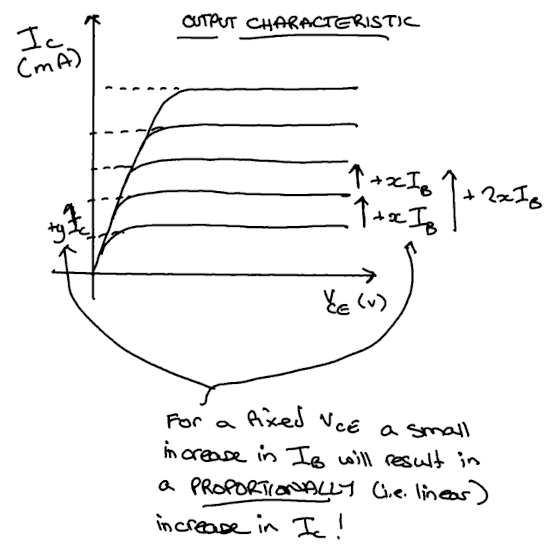
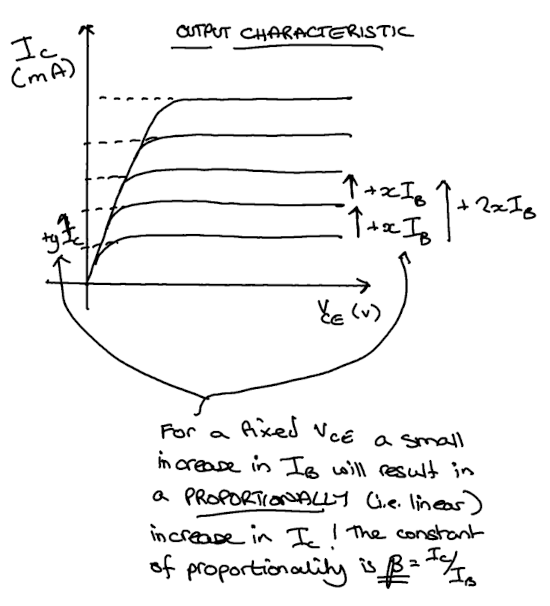
More transitors

Changed region(s): [[0.0, 0.0, 0.9891, 0.9802], [0.3091, 0.0, 0.7727, 0.0919]]

diff --git a/src/html/electronics.html b/src/html/electronics.html
@@ -1592,6 +1592,15 @@
 					Eye-balling the graph, it looks most linear between 10mA and 16mA...
 				</p>
 				<p>
+					One might wonder, if the input characteristic shows an expenential increase in $I_B$ with $V_{BE}$,
+					how can amplification with a transistor be even remotely linear. The answer is that the amplification
+					is done in the pertion of the intput characteristic curve that is so expenential is can be approximated
+					as linear, and the corresponding reagion in the output charateristic curve is also approimately linear:
+				</p>
+				<p>
+					<img src="##IMG_DIR##/electronics_bjt_amplification.png">
+				</p>
+				<p>
 					Looking at output is terms of a voltage divider:
 				</p>
 				<p>
